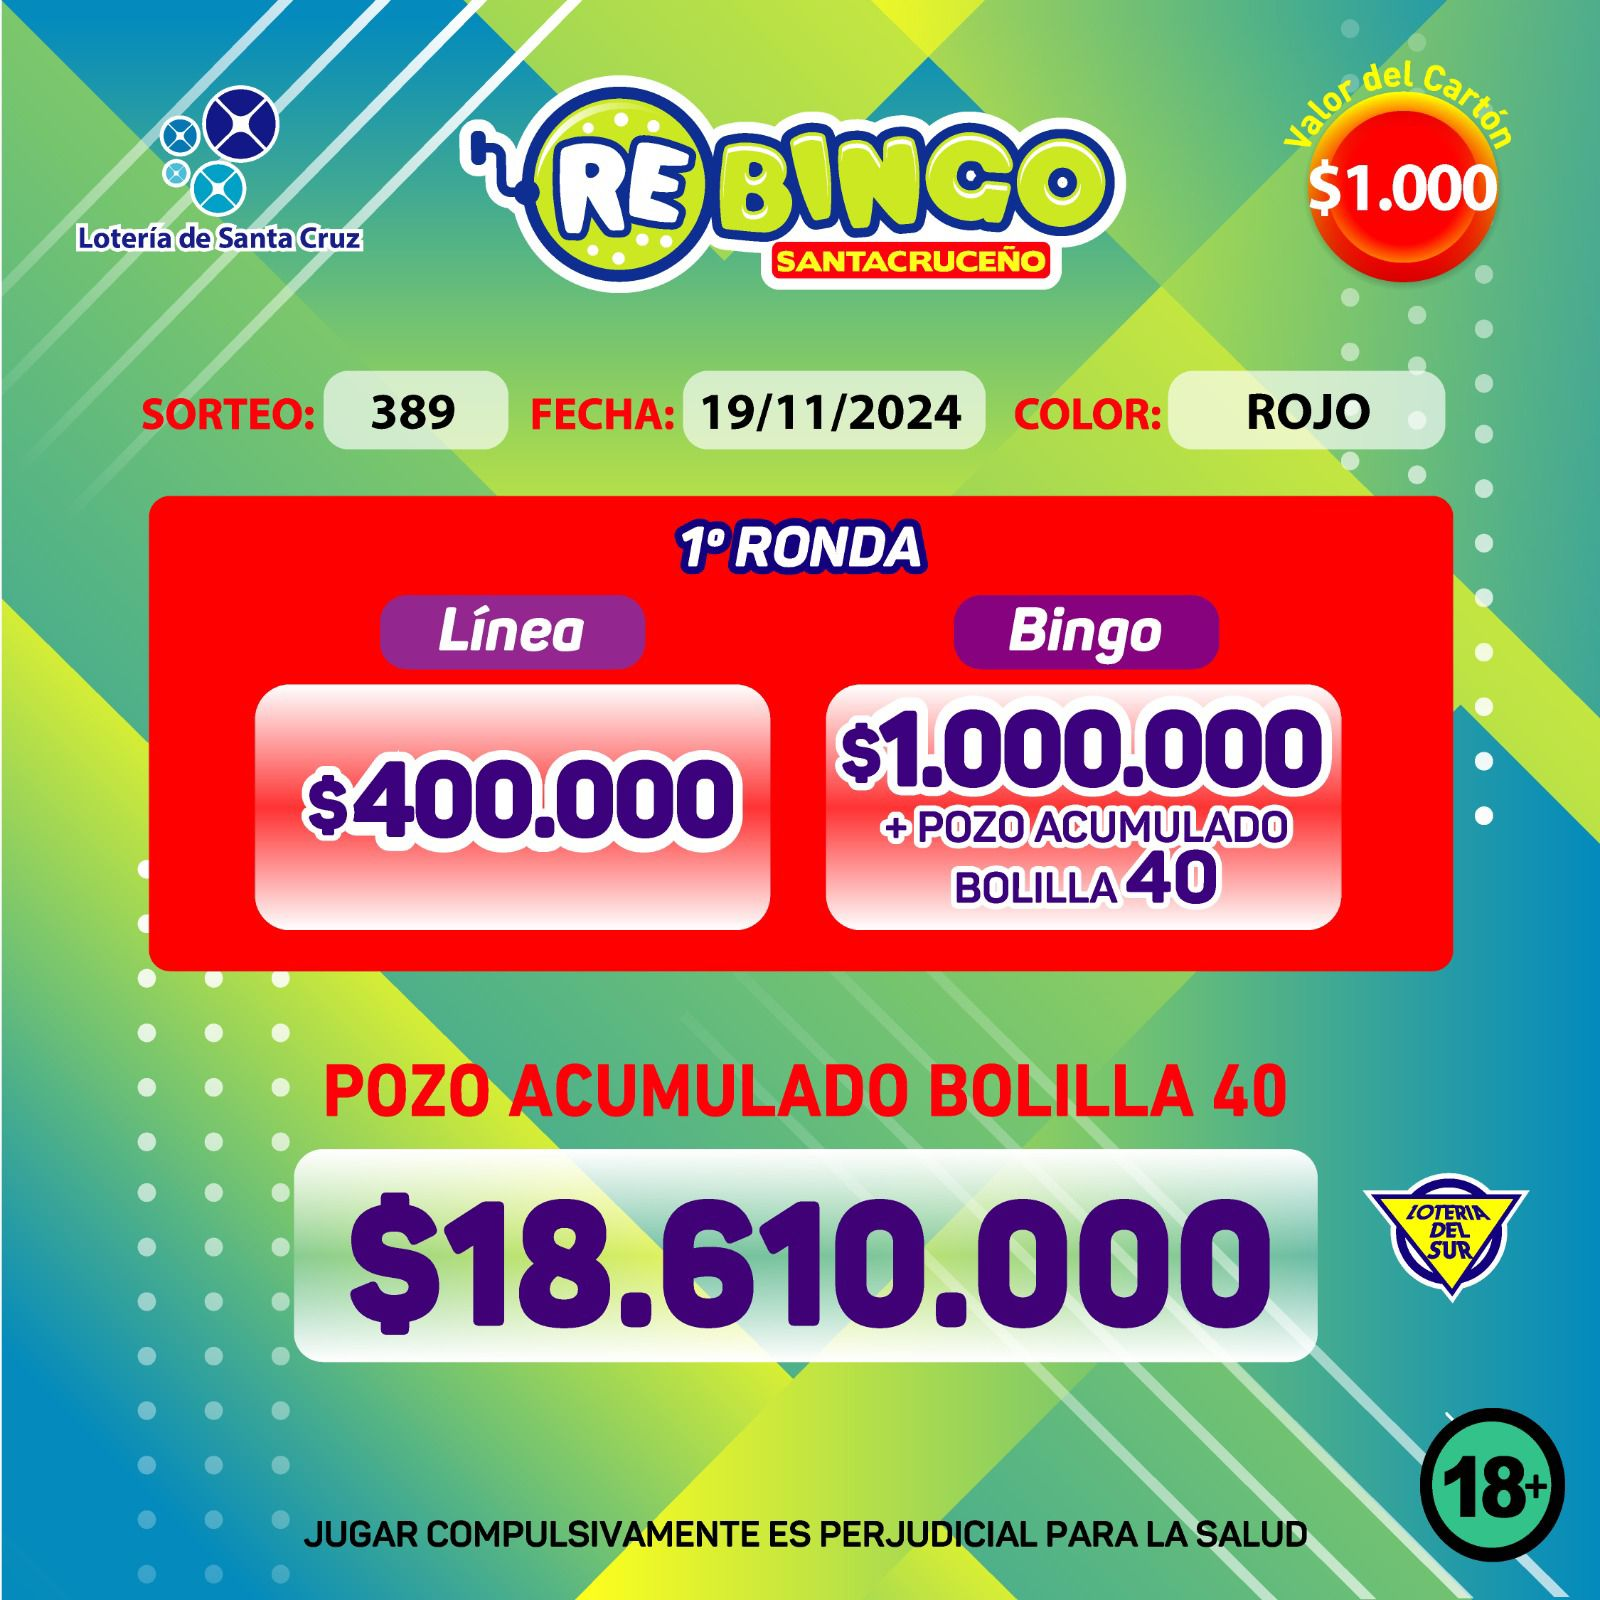
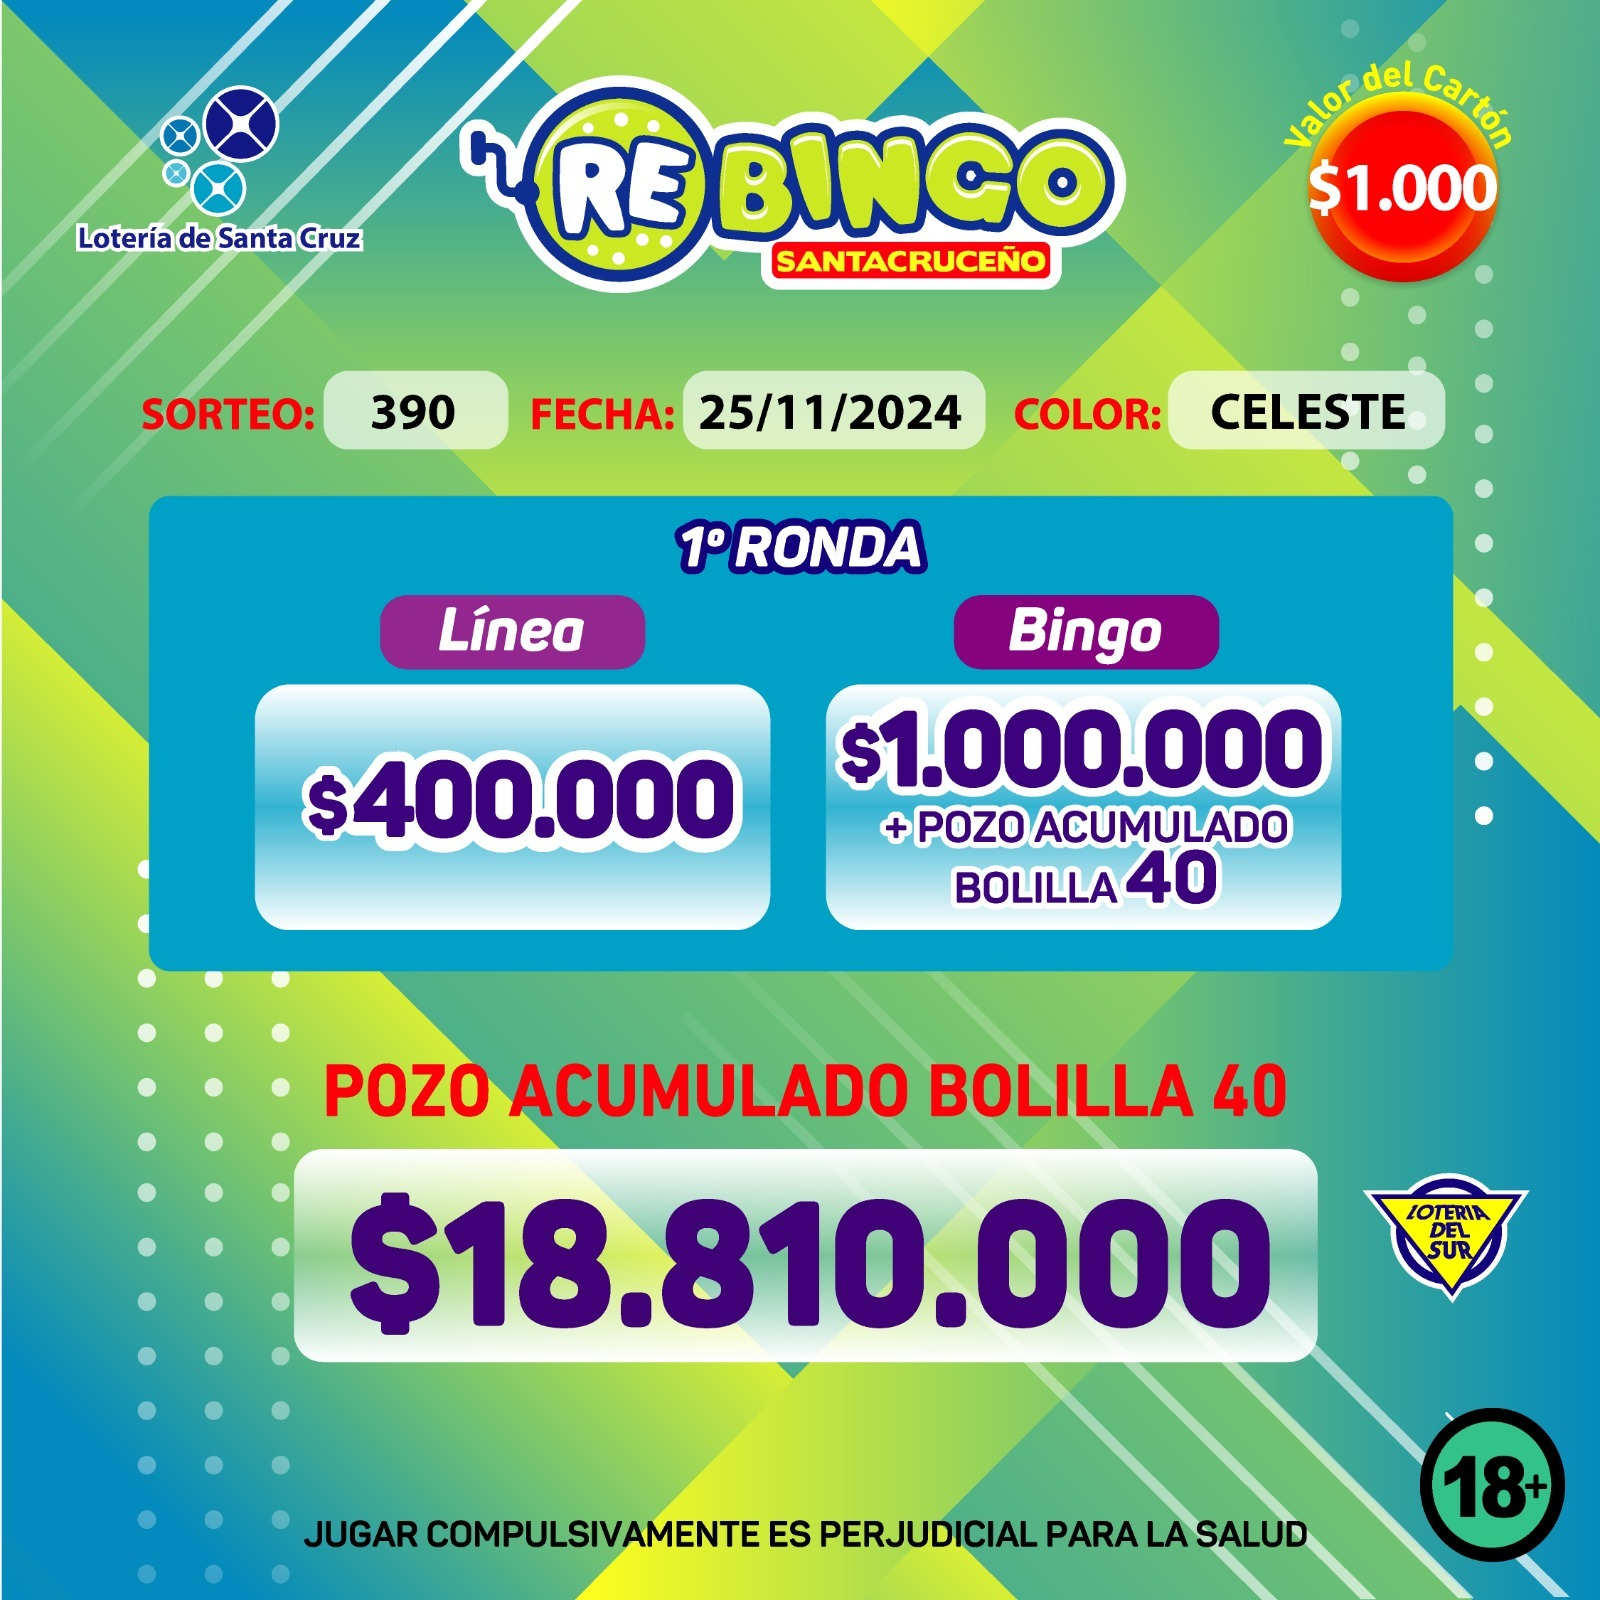
Actualizadas las promos semana 2 y agregada responsividad en elementos de menos de 700

diff --git a/css/style.css b/css/style.css
@@ -332,6 +332,8 @@ main {
     /* gap: 20px;*/
     /* flex-wrap: wrap;*/
     /*  align-content: flex-start;*/
+    /*  align-items: center; */
+    justify-content: space-between;
 }
 
 .galeria-cuadro {
@@ -342,10 +344,12 @@ main {
     height: auto;
    /* flex-basis: 100px;*/
     margin: 1.5%;
-    width: 34%;
+    /* width: 34%; */
+    height: 100%;
+    max-height: 20vw;
     overflow: hidden;
     display: inline-block;
-    border-radius: 15%;
+    border-radius: 2%;
     border-style: solid;
     border-width: 0.5vw;
     border-color: #e4e4e4;
@@ -353,6 +357,9 @@ main {
     transition: all 0.4s ease-in-out;
     position: relative;
     z-index: 1;
+    object-fit: contain;
+
+
 
 }
 
@@ -360,12 +367,14 @@ main {
 .galeria-imagen {
     width: 100%;
     height: 100%;
-    /*  object-fit: contain;*/
+    object-fit: contain;
     justify-content: center;
     align-items: center;
     transition: all 0.3s ease-in-out;
     overflow: hidden;
-    border-radius: 2%;
+    border-radius: 1%;
+    max-height: 19vw;
+
 
 
 }
@@ -1049,6 +1058,25 @@ audio:nth-child(6) {
         top: 0px;
         right: 5px;
         font-size: 4rem;
+
+    }
+
+    .galeria {
+        flex-wrap: wrap;
+        justify-content: space-evenly;
+    }
+
+    .galeria-cuadro {
+
+
+        max-height: 40vw;
+
+    }
+
+    .galeria-imagen {
+
+
+        max-height: 40vw;
 
     }
 }
